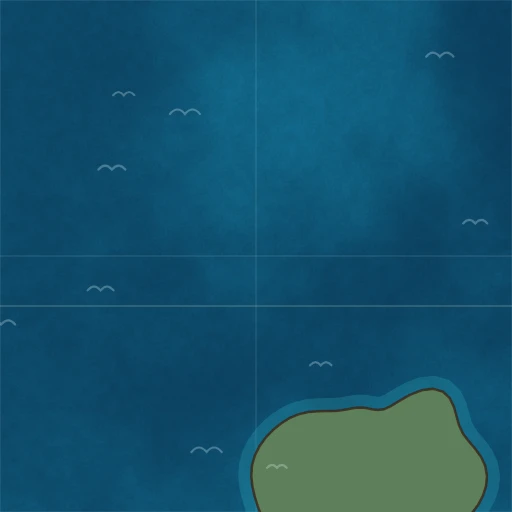
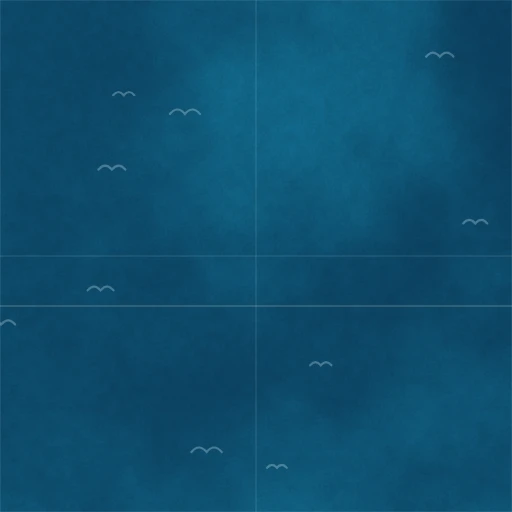
Mondo: pezzi del kit di Arte UI, isolotti lontani dalle rotte, nebbia leggera sui bordi
- pedine, cartello, bandierina e icone dei premi da public/assets/ui/ (src/ui/kit/risorse.ts),
  con le ancore di PEZZI_MONDO; il premio sopra l'isola è quello del suo primo premio
- i segnaposto dipinti in casa escono dal pittore di serie
- isolotti decorativi della carta scelti lontano da isole del capitolo, rotte e rosa dei venti
- nebbia del mondo lontano più trasparente vicino alle isole aperte e a Cala Pappagallo

Claude-Session: https://claude.ai/code/session_01JsJehCfJAAWBStgMbF28iJ

Changed region(s): [[0.4688, 0.7188, 1.0, 1.0]]

diff --git a/src/mondo/scena/scena-mondo.ts b/src/mondo/scena/scena-mondo.ts
@@ -14,7 +14,15 @@ import {
   capitoliAperti, capitoliBloccati, isolaInPunto, isoleBloccate, rotte, sbuffiNebbia, scalaSegni, viaggioInCoda,
   vistaDaStato, type IsolaMappa, type VistaIsola,
 } from './logica';
+import { PEZZI_MONDO } from '../../ui/kit/risorse';
 import type { TextureMondo } from './risorse';
+
+/** pedine, cartelli, bandierine e premi del kit di Arte UI sono a 3×: 1/3 di px d'immagine per px logico */
+const P = 1 / 3;
+const anc = (id: keyof typeof PEZZI_MONDO): [number, number] => {
+  const q = PEZZI_MONDO[id];
+  return [q.ancora[0] / q.w, q.ancora[1] / q.h];
+};
 
 const ROSSO = hex(COLORI_CIURMA.teschio.colore);
 const GRIGIO = hex(COLORI_CIURMA.marina.colore);
@@ -167,23 +175,23 @@ export class ScenaMondo {
 
     const base = { x: m.x + m.raggio * 0.05, y: m.y - m.raggio * 0.05 };
     const cartello = new Sprite(t.cartello);
-    cartello.anchor.set(0.5, 0.95); cartello.position.set(base.x, base.y); cartello.zIndex = base.y;
+    cartello.anchor.set(...anc('ui_mondo_cartello_marina')); cartello.position.set(base.x, base.y); cartello.zIndex = base.y;
     const bandierina = new Sprite(t.bandierina);
-    bandierina.anchor.set(8 / 50, 0.95); bandierina.position.set(base.x, base.y); bandierina.zIndex = base.y;
+    bandierina.anchor.set(...anc('ui_mondo_bandierina')); bandierina.position.set(base.x, base.y); bandierina.zIndex = base.y;
     const pedina = new Container();
     const pedinaSprite = new Sprite(t.pedinaGrigia);
-    pedinaSprite.anchor.set(0.5); pedinaSprite.scale.set(0.5);
+    pedinaSprite.anchor.set(...anc('ui_mondo_pedina_rossa')); pedinaSprite.scale.set(P);
     const numero = new Text({
       text: '0',
       style: { fontFamily: 'Lilita One', fontSize: 20, fill: 0xfff7e8, stroke: { color: SCURO, width: 4 } },
       resolution: 3,
     });
-    numero.anchor.set(0.5, 0.55); numero.position.set(0, -4);
+    numero.anchor.set(0.5, 0.55); numero.position.set(0, 0);
     pedina.addChild(pedinaSprite, numero);
     pedina.position.set(m.x + m.raggio * 0.62, m.y + m.raggio * 0.5);
     pedina.zIndex = pedina.y;
     const premio = new Sprite(t.premi.arma);
-    premio.anchor.set(0.5, 1); premio.scale.set(0.5);
+    premio.anchor.set(0.5, 1); premio.scale.set(P);
     premio.position.set(m.x - m.raggio * 0.35, m.y - m.raggio * 0.55);
     premio.zIndex = premio.y;
     strati.segni.addChild(cartello, bandierina, pedina, premio);
@@ -195,7 +203,7 @@ export class ScenaMondo {
     for (const b of sbuffiNebbia(this.mappa, MONDO_W, MONDO_H)) {
       const s = new Sprite(this.tex.nebbia);
       s.anchor.set(0.5); s.scale.set(b.s); s.rotation = b.r; s.position.set(b.x, b.y);
-      const base = 0.92;
+      const base = b.alfa;
       s.alpha = base;
       c.addChild(s);
       this.sbuffi.push({ s, x: b.x, y: b.y, capitolo: b.capitolo, base, fase: b.r * 10 });
@@ -281,7 +289,7 @@ export class ScenaMondo {
     i.pedinaSprite.texture = mio ? this.tex.pedinaRossa : this.tex.pedinaGrigia;
     i.numero.text = String(v.pirati);
     i.premio.visible = v.premio !== null;
-    if (v.premio) i.premio.texture = this.tex.premi[v.premio];
+    if (v.premio) i.premio.texture = this.tex.premiIsola.get(i.m.id) ?? this.tex.premi[v.premio];
     this.coloraOnda(i, mio ? ROSSO : GRIGIO);
   }
 
@@ -358,13 +366,13 @@ export class ScenaMondo {
     if (Math.abs(k - this.scalaSegniUltima) > 0.001) {
       this.scalaSegniUltima = k;
       for (const i of this.isole.values()) {
-        i.cartello.scale.set(0.5 * k); i.bandierina.scale.set(0.5 * k); i.pedina.scale.set(k);
+        i.cartello.scale.set(P * k); i.bandierina.scale.set(P * k); i.pedina.scale.set(k);
       }
     }
     const respiro = Math.sin(this.t / 700);
     for (const i of this.isole.values()) {
       i.onda.scale.set(0.5 * (1 + 0.012 * respiro));
-      i.premio.scale.set(0.5 * k);
+      i.premio.scale.set(P * k);
       // il premio galleggia a sinistra del cartello: le distanze crescono coi segnaposti, così non si coprono
       i.premio.position.set(i.m.x + i.m.raggio * 0.05 - 36 * k, i.m.y - i.m.raggio * 0.05 - (30 + 4 * Math.sin(this.t / 380 + i.m.x)) * k);
       // la bandierina sventola
@@ -534,8 +542,8 @@ export class ScenaMondo {
     await this.inVista([{ x: i.m.x, y: i.m.y, r: i.m.raggio * 1.6 }]);
     const y0 = i.cartello.y;
     // il cartello trema, si stacca e vola via
-    await this.anima(260, (t) => { i.cartello.rotation = Math.sin(t * 40) * 0.12 * (1 - t); i.cartello.scale.y = 0.5 * this.scalaSegniUltima * (1 - 0.15 * Math.sin(t * Math.PI)); });
-    i.cartello.scale.y = 0.5 * this.scalaSegniUltima;
+    await this.anima(260, (t) => { i.cartello.rotation = Math.sin(t * 40) * 0.12 * (1 - t); i.cartello.scale.y = P * this.scalaSegniUltima * (1 - 0.15 * Math.sin(t * Math.PI)); });
+    i.cartello.scale.y = P * this.scalaSegniUltima;
     await this.anima(650, (t) => {
       i.cartello.y = y0 - 160 * morbido(t);
       i.cartello.x = i.m.x + i.m.raggio * 0.05 + 70 * t;

diff --git a/src/mondo/scena/risorse.ts b/src/mondo/scena/risorse.ts
@@ -4,6 +4,8 @@
 import { Assets, type Texture } from 'pixi.js';
 import type { IdIsola } from '../../core/carriera';
 import type { Indici } from './logica';
+import { urlPezzoMondo, urlPremio, urlTipoPremio } from '../../ui/kit/risorse';
+import type { DefIsola } from '../../core/carriera';
 
 const BASE = './assets/mondo/';
 
@@ -22,7 +24,10 @@ export interface TextureMondo {
   pedinaGrigia: Texture;
   cartello: Texture;
   bandierina: Texture;
+  /** icona generica per tipo di premio (kit di Arte UI) */
   premi: Record<'arma' | 'mossa' | 'recluta' | 'bandiera', Texture>;
+  /** icona del primo premio di ogni isola (rampino, ancora, mossa…) */
+  premiIsola: Map<IdIsola, Texture>;
   boccale: Texture;
   nebbia: Texture;
   veliero: Texture;
@@ -49,14 +54,19 @@ async function leggiIndici(m: Manifesto): Promise<Indici | null> {
   }
 }
 
-export async function caricaTextureMondo(isole: IdIsola[], righe: number, colonne: number): Promise<TextureMondo> {
+// pedine, cartello, bandierina e premi vengono dal kit dipinto di Arte UI (public/assets/ui/, a 3×)
+const KIT_MONDO = ['ui_mondo_pedina_rossa', 'ui_mondo_pedina_grigia', 'ui_mondo_cartello_marina', 'ui_mondo_bandierina'] as const;
+const TIPI_PREMIO = ['arma', 'mossa', 'recluta', 'bandiera'] as const;
+
+export async function caricaTextureMondo(isole: IdIsola[], righe: number, colonne: number, defs: DefIsola[] = []): Promise<TextureMondo> {
   const manifesto = (await (await fetch(`${BASE}mondo.json`)).json()) as Manifesto;
-  const nomi: string[] = ['tavolo.webp', 'onde-a.png', 'onde-b.png', 'pedina-rossa.webp', 'pedina-grigia.webp', 'cartello.webp',
-    'bandierina.webp', 'premio-arma.webp', 'premio-mossa.webp', 'premio-recluta.webp', 'premio-bandiera.webp', 'boccale.webp',
-    'nebbia.png', 'veliero.webp'];
+  const nomi: string[] = ['tavolo.webp', 'onde-a.png', 'onde-b.png', 'boccale.webp', 'nebbia.png', 'veliero.webp'];
   for (let r = 0; r < righe; r++) for (let c = 0; c < colonne; c++) nomi.push(`carta-${r}-${c}.webp`);
   for (const id of isole) nomi.push(`isola-${id}.webp`, `onda-${id}.png`);
-  const [tex, indici] = await Promise.all([Assets.load<Texture>(nomi.map((n) => BASE + n)), leggiIndici(manifesto)]);
+  const premiIsola = defs.filter((d) => d.premi.length).map((d) => [d.id, './' + urlPremio(d.premi[0])] as const);
+  const kit = [...KIT_MONDO.map((k) => './' + urlPezzoMondo(k)), ...TIPI_PREMIO.map((t) => './' + urlTipoPremio(t)), ...premiIsola.map(([, u]) => u)];
+  const [tex, indici] = await Promise.all([Assets.load<Texture>([...nomi.map((n) => BASE + n), ...kit]), leggiIndici(manifesto)]);
+  const k = (id: (typeof KIT_MONDO)[number]) => tex['./' + urlPezzoMondo(id)];
   const t = (n: string) => tex[BASE + n];
   const carta: Texture[][] = [];
   for (let r = 0; r < righe; r++) { carta.push([]); for (let c = 0; c < colonne; c++) carta[r].push(t(`carta-${r}-${c}.webp`)); }
@@ -68,11 +78,12 @@ export async function caricaTextureMondo(isole: IdIsola[], righe: number, colonn
     ondeB: t('onde-b.png'),
     isole: new Map(isole.map((id) => [id, t(`isola-${id}.webp`)])),
     onde: new Map(isole.map((id) => [id, t(`onda-${id}.png`)])),
-    pedinaRossa: t('pedina-rossa.webp'),
-    pedinaGrigia: t('pedina-grigia.webp'),
-    cartello: t('cartello.webp'),
-    bandierina: t('bandierina.webp'),
-    premi: { arma: t('premio-arma.webp'), mossa: t('premio-mossa.webp'), recluta: t('premio-recluta.webp'), bandiera: t('premio-bandiera.webp') },
+    pedinaRossa: k('ui_mondo_pedina_rossa'),
+    pedinaGrigia: k('ui_mondo_pedina_grigia'),
+    cartello: k('ui_mondo_cartello_marina'),
+    bandierina: k('ui_mondo_bandierina'),
+    premi: Object.fromEntries(TIPI_PREMIO.map((tp) => [tp, tex['./' + urlTipoPremio(tp)]])) as TextureMondo['premi'],
+    premiIsola: new Map(premiIsola.map(([id, u]) => [id, tex[u]])),
     boccale: t('boccale.webp'),
     nebbia: t('nebbia.png'),
     veliero: t('veliero.webp'),

diff --git a/scripts/mondo/pittore.ts b/scripts/mondo/pittore.ts
@@ -44,13 +44,36 @@ export function isoleDaDipingere(): IsolaDaDipingere[] {
   return lista;
 }
 
-/** Sagome lontane dipinte nella carta (isole dei capitoli futuri: si intravedono sotto la nebbia). */
+/**
+ * Sagome lontane dipinte nella carta (isole dei capitoli futuri: si intravedono sotto la nebbia). Si scelgono
+ * da una griglia di candidati lontani dalle isole del capitolo, dalle rotte e dalla rosa dei venti: se si
+ * spostano le isole nei dati, basta ridipingere la carta.
+ */
 function sagomeLontane(): { x: number; y: number; r: number; s: Sagoma }[] {
-  const pos = [
-    [2550, 330, 80], [2820, 620, 95], [2420, 820, 70], [2700, 1050, 85], [2900, 1380, 75], [2420, 1500, 90],
-    [420, 300, 75], [260, 760, 85], [470, 1130, 70], [150, 1450, 60], [1650, 230, 65], [2150, 380, 80],
-  ];
-  return pos.map(([x, y, r], i) => ({ x, y, r, s: sagoma(`lontana-${i}`, r) }));
+  const isole = isoleDaDipingere();
+  const segmenti: [number, number, number, number][] = [];
+  for (const i of CAPITOLO_1.isole) for (const a of i.adiacenti) {
+    const b = CAPITOLO_1.isole.find((x) => x.id === a);
+    if (b && i.id < a) segmenti.push([i.pos.x, i.pos.y, b.pos.x, b.pos.y]);
+  }
+  const daSegmento = (x: number, y: number, [ax, ay, bx, by]: [number, number, number, number]) => {
+    const vx = bx - ax, vy = by - ay;
+    const t = Math.max(0, Math.min(1, ((x - ax) * vx + (y - ay) * vy) / (vx * vx + vy * vy)));
+    return Math.hypot(x - ax - vx * t, y - ay - vy * t);
+  };
+  const r = rng(61);
+  const out: { x: number; y: number; r: number; s: Sagoma }[] = [];
+  for (let gy = 0; gy < 5; gy++) {
+    for (let gx = 0; gx < 9; gx++) {
+      const x = 230 + gx * 330 + (r() - 0.5) * 120, y = 230 + gy * 320 + (r() - 0.5) * 100, rr = 55 + r() * 40;
+      if (x > MONDO_W - 200 || y > MONDO_H - 200) continue;
+      if (Math.hypot(x - 330, y - 1330) < 260) continue; // rosa dei venti
+      if (isole.some((i) => Math.hypot(x - i.x, y - i.y) - i.raggio - rr < 300)) continue;
+      if (segmenti.some((sg) => daSegmento(x, y, sg) < rr + 140)) continue;
+      out.push({ x, y, r: rr, s: sagoma(`lontana-${gx}-${gy}`, rr) });
+    }
+  }
+  return out;
 }
 
 /** Colori del terreno per bioma: [sabbia, prato, prato scuro, roccia, cima] */
@@ -602,8 +625,9 @@ type Dipinto = { nome: string; c: HTMLCanvasElement; formato: 'webp' | 'png' };
 
 /** Elenco dei file da dipingere (nome senza estensione). Lo usa dipingi.ts per chiederli uno alla volta. */
 export function elenco(): string[] {
-  const nomi = ['tavolo', 'carta', 'indici', 'onde-a', 'onde-b', 'pedina-rossa', 'pedina-grigia', 'cartello', 'bandierina',
-    'premio-arma', 'premio-mossa', 'premio-recluta', 'premio-bandiera', 'boccale', 'nebbia', 'veliero'];
+  // pedine, cartello, bandierina e premi definitivi sono del kit di Arte UI (public/assets/ui/): i segnaposto qui
+  // sotto restano dipingibili a richiesta (es. `dipingi.ts pedina-rossa`) ma non si salvano più di serie
+  const nomi = ['tavolo', 'carta', 'indici', 'onde-a', 'onde-b', 'boccale', 'nebbia', 'veliero'];
   for (const i of isoleDaDipingere()) nomi.push(`isola-${i.id}`, `onda-${i.id}`);
   return nomi;
 }

diff --git a/src/mondo/scena/logica.ts b/src/mondo/scena/logica.ts
@@ -101,10 +101,10 @@ export function scalaSegni(scala: number): number {
  * Pappagallo (capitolo 0) non si mette nebbia.
  */
 export function sbuffiNebbia(isole: IsolaMappa[], w: number, h: number, passo = 210, vicino = 300, seme = 7):
-  { x: number; y: number; capitolo: number; s: number; r: number }[] {
+  { x: number; y: number; capitolo: number; s: number; r: number; alfa: number }[] {
   let a = seme >>> 0;
   const caso = () => { a = (a * 1664525 + 1013904223) >>> 0; return a / 4294967296; };
-  const out: { x: number; y: number; capitolo: number; s: number; r: number }[] = [];
+  const out: { x: number; y: number; capitolo: number; s: number; r: number; alfa: number }[] = [];
   for (let y = passo / 2; y < h + passo / 2; y += passo) {
     for (let x = passo / 2; x < w + passo / 2; x += passo) {
       const px = x + (caso() - 0.5) * passo * 0.6, py = y + (caso() - 0.5) * passo * 0.6;
@@ -117,7 +117,9 @@ export function sbuffiNebbia(isole: IsolaMappa[], w: number, h: number, passo = 
       const cala = isole.find((i) => i.capitolo === 0);
       if (cala && Math.hypot(px - cala.x, py - cala.y) < cala.raggio + 170) continue;
       if (capitolo === 0) capitolo = 99;
-      out.push({ x: px, y: py, capitolo, s: 1.7 + caso() * 0.9, r: caso() * Math.PI * 2 });
+      // la nebbia del mondo lontano è più leggera sul bordo delle isole già aperte (si leggono coste e Cala)
+      const bordo = capitolo === 99 ? Math.min(1, Math.max(0, (dMin - vicino) / 500)) : 1;
+      out.push({ x: px, y: py, capitolo, s: 1.7 + caso() * 0.9, r: caso() * Math.PI * 2, alfa: 0.92 * (0.45 + 0.55 * bordo) });
     }
   }
   return out;

diff --git a/src/mondo/scena/index.ts b/src/mondo/scena/index.ts
@@ -36,7 +36,7 @@ export function montaScenaMondo(app: Application, mare: { radice: Container }): 
     if (caricamento) return;
     const righe = Math.ceil(MONDO_H / 512), colonne = Math.ceil(MONDO_W / 512);
     const isole = [...CAPITOLO_1.isole.map((i) => i.id), CALA_PAPPAGALLO.id];
-    caricamento = caricaTextureMondo(isole, righe, colonne).then((tex) => {
+    caricamento = caricaTextureMondo(isole, righe, colonne, CAPITOLO_1.isole).then((tex) => {
       const s = new ScenaMondo(app, tex);
       scena = s;
       app.stage.addChildAt(s.radice, Math.min(1, app.stage.children.length));
